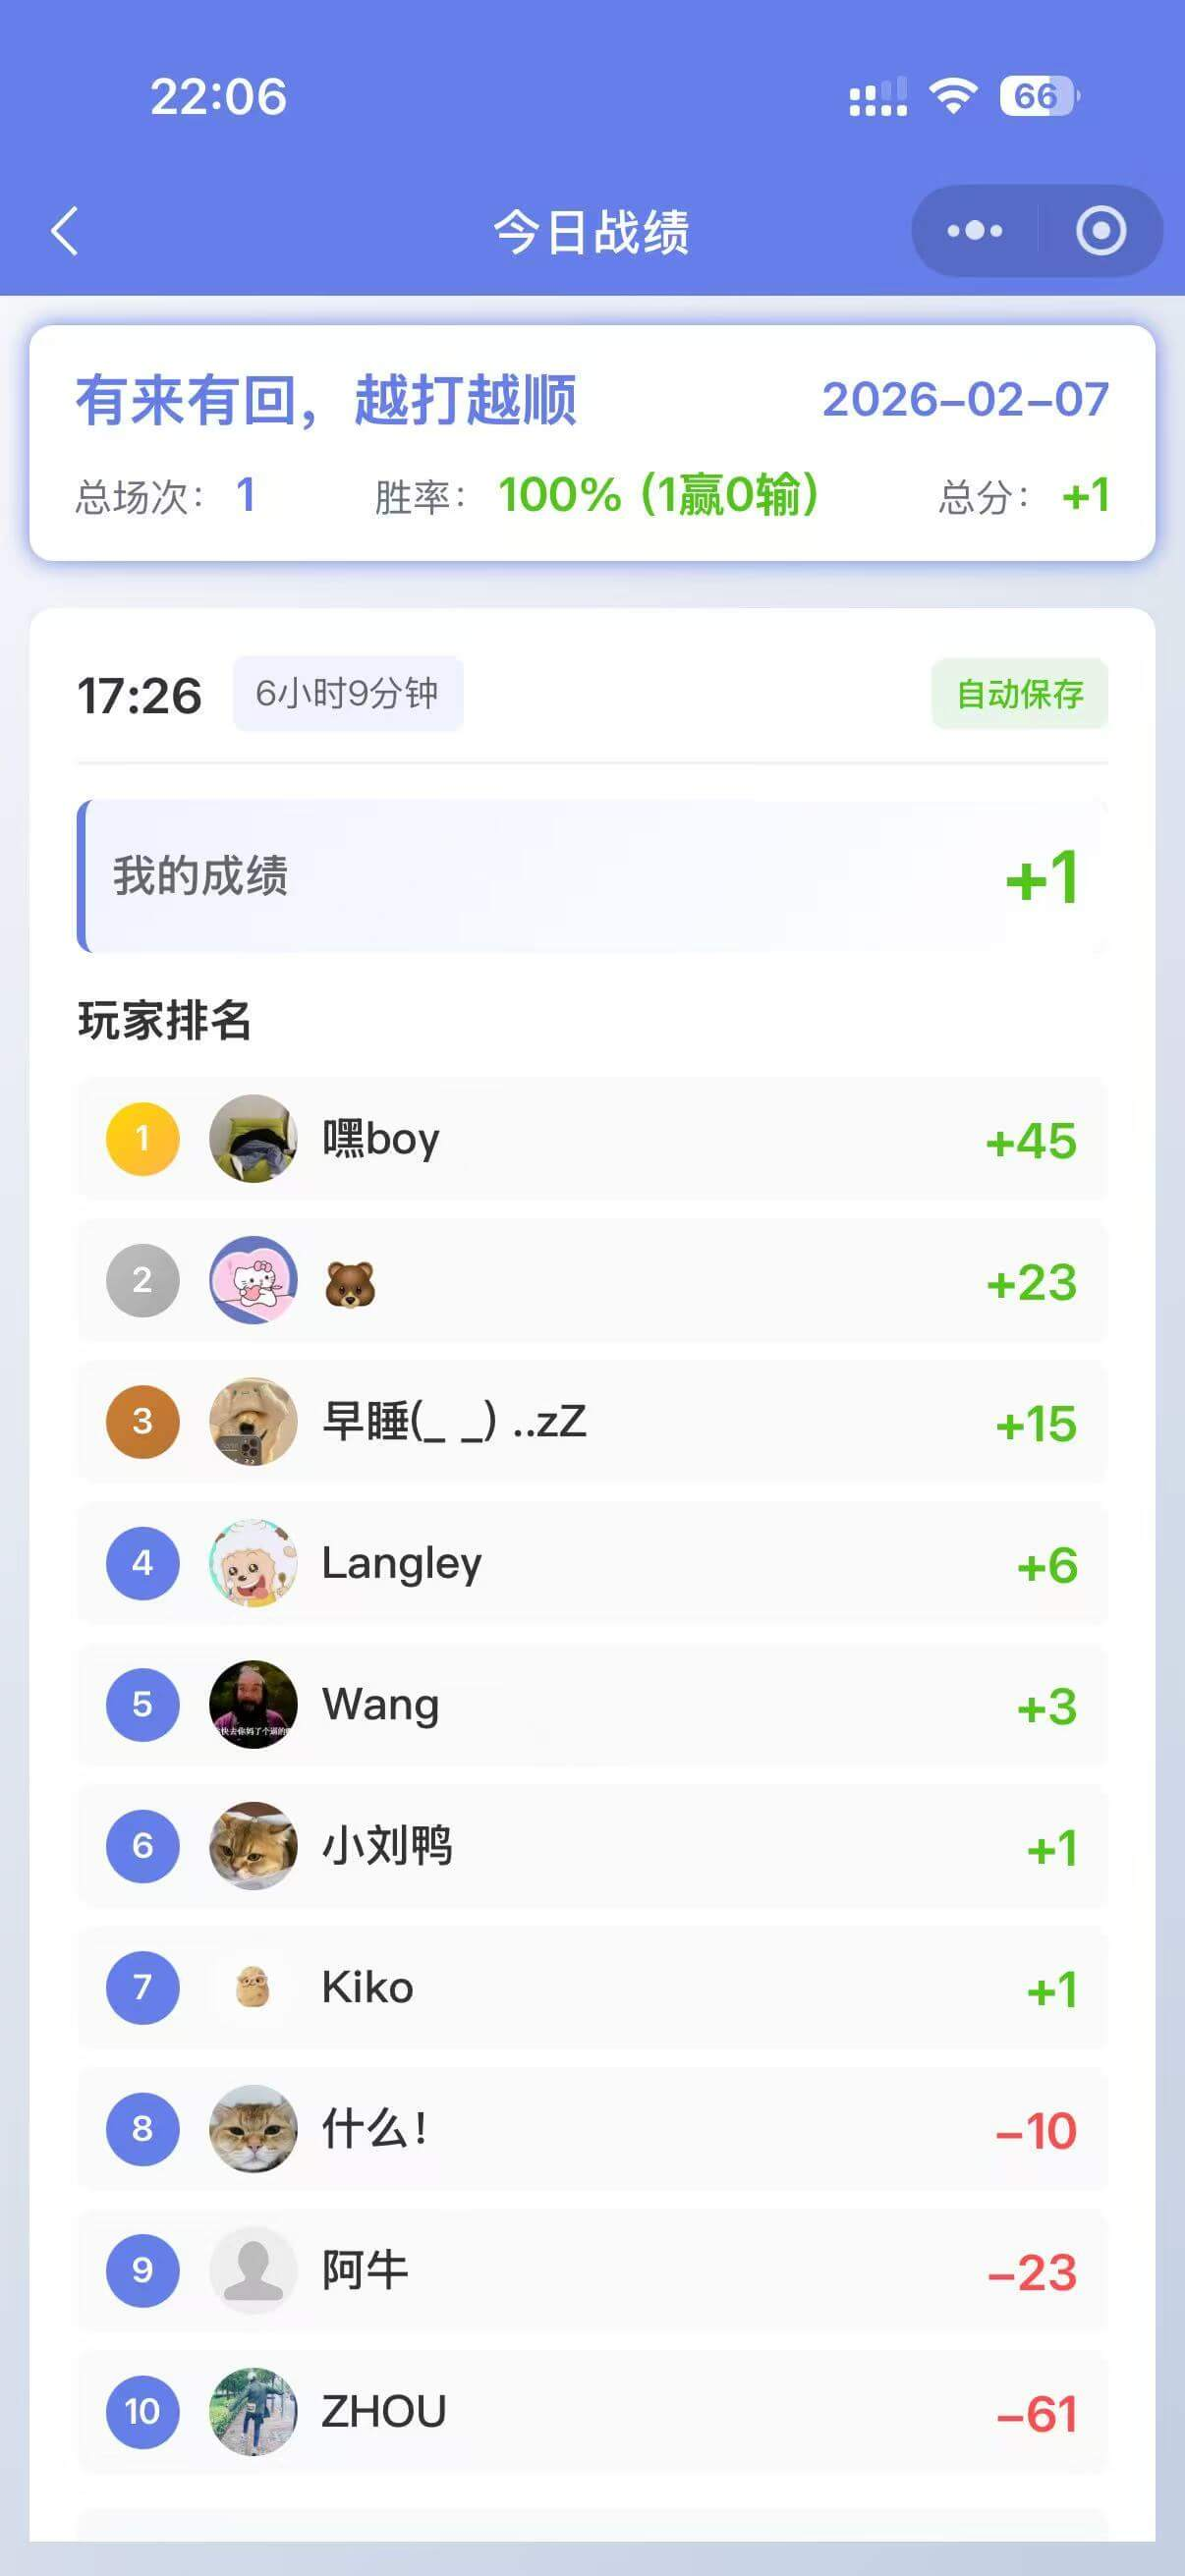
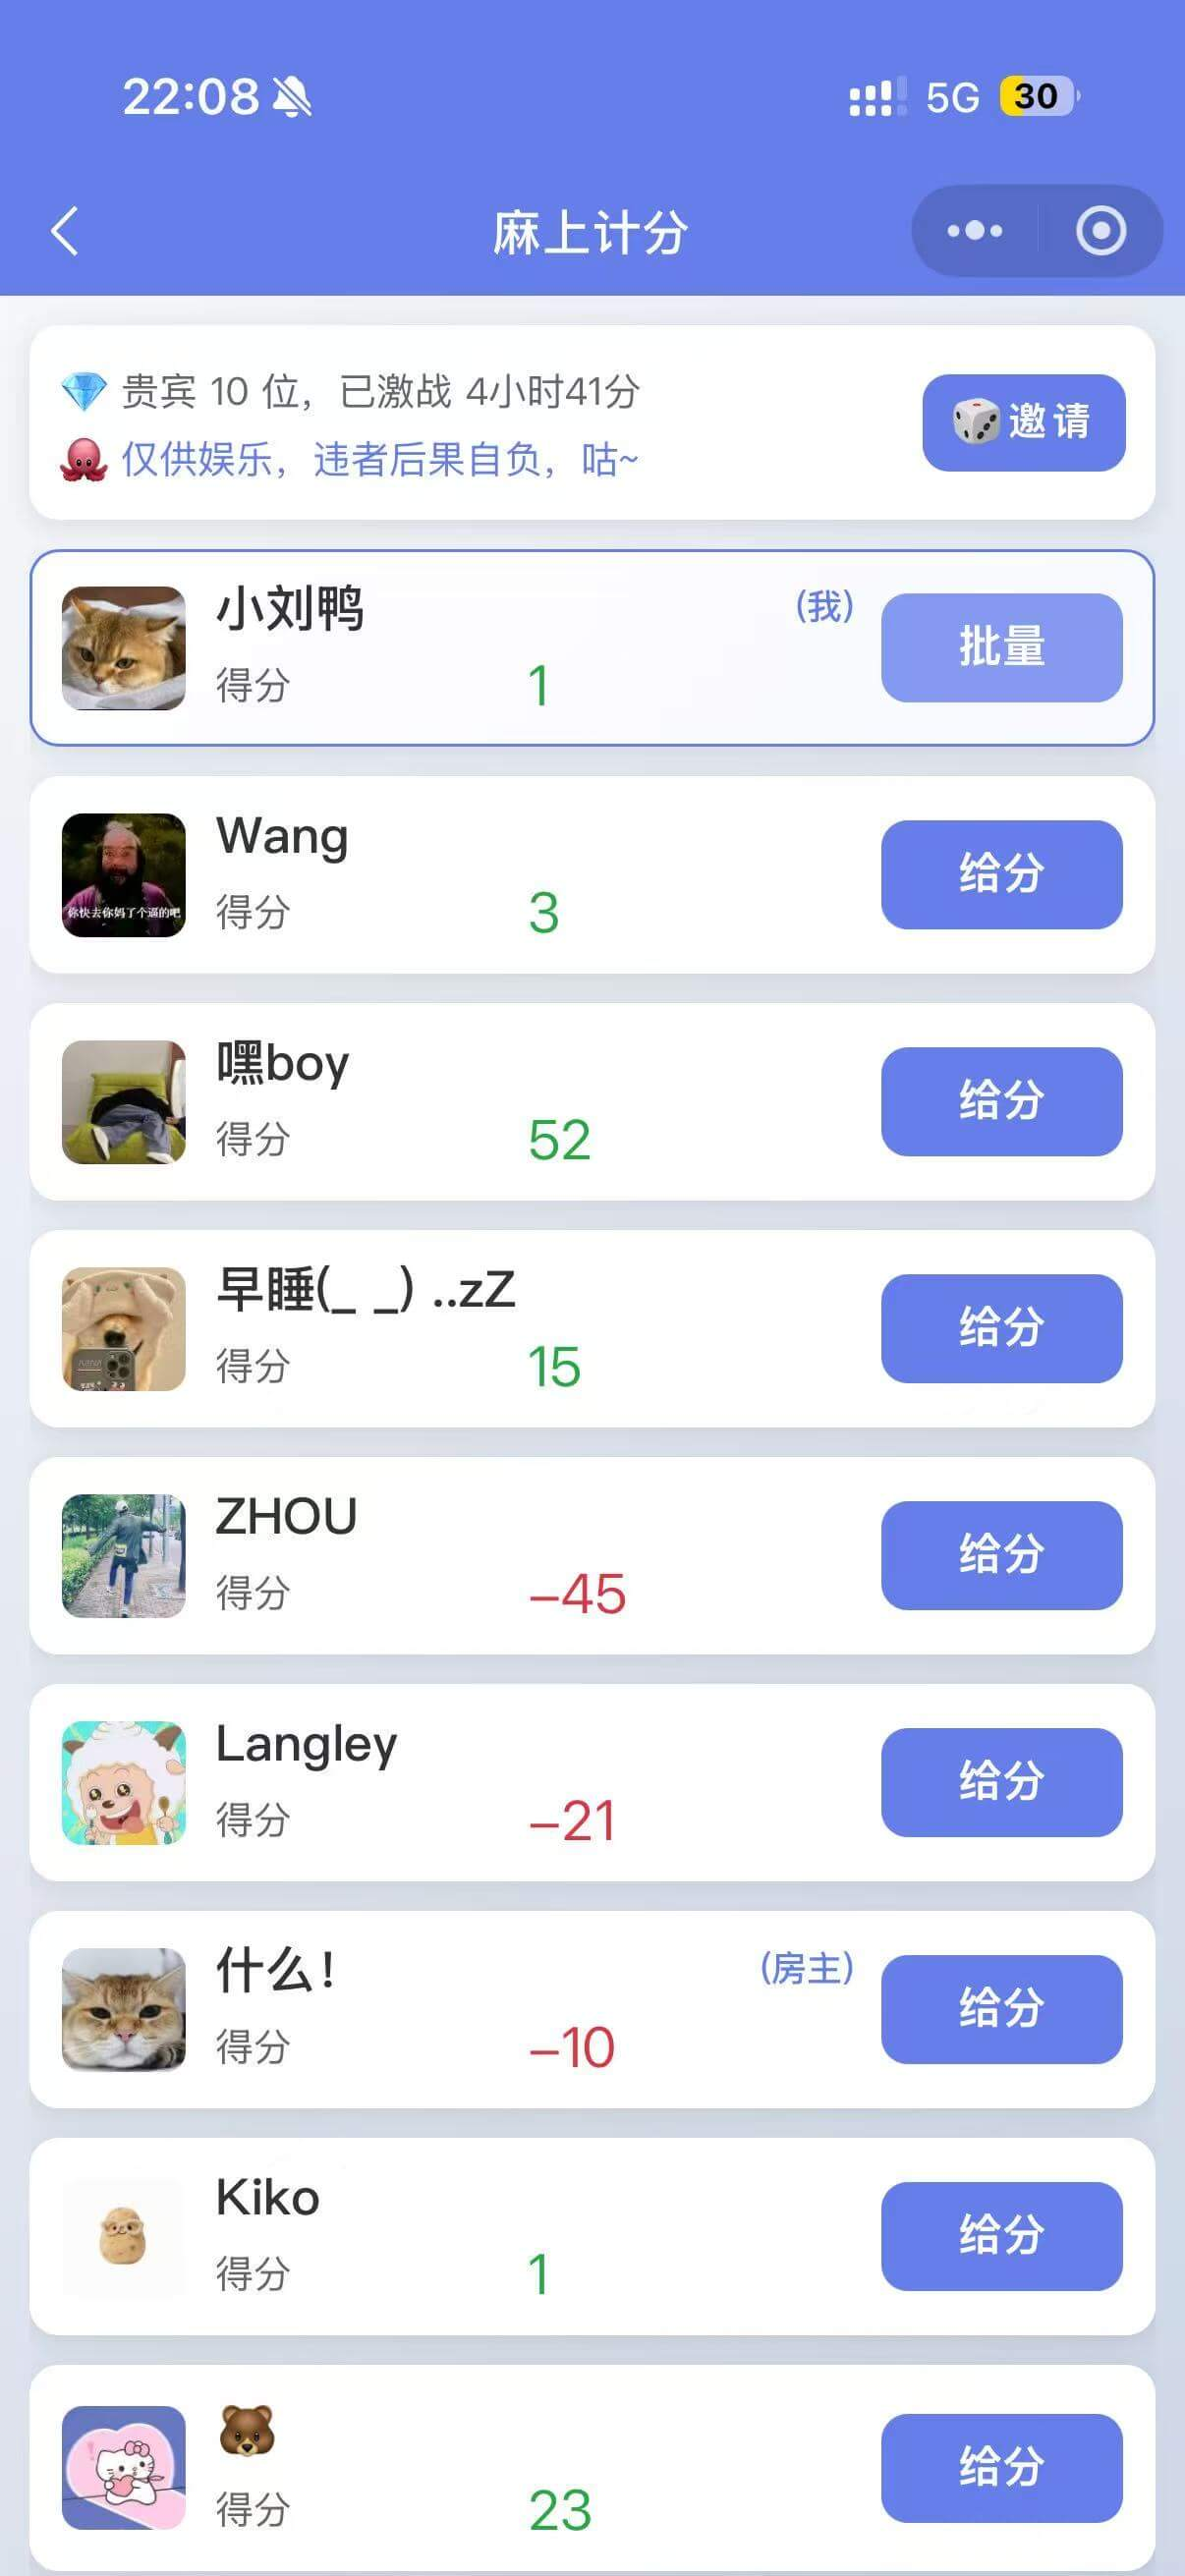
fix: update title to emphasize that "麻上计分" is completely free and ad-free; replace cover images for improved visual representation

Changed region(s): [[0.0, 0.0618, 0.9818, 1.0], [0.092, 0.0309, 0.2761, 0.0618], [0.7363, 0.0309, 0.8897, 0.0618]]

diff --git a/blog-main/content/posts/mashang-jifen.md b/blog-main/content/posts/mashang-jifen.md
@@ -1,5 +1,5 @@
 ---
-title: 打麻将记账不想再「开会员」？我做了个小程序叫「麻上计分」
+title: 打麻将记账不想再「开会员」？我做了个小程序叫「麻上计分」,完全免费无广告
 date: 2026-05-19
 excerpt: 简约好看好用——不卡人数、不加广告、没有会员制。去年看不惯别家计分小程序，自己写了一个给朋友用，现在快三千人了。
 author: Dci
@@ -28,7 +28,7 @@ coverImage: /content/posts/mashang-jifen/1.jpg
 
 配色也刻意收着：浅紫渐变顶栏、白底、圆角卡片，图标和字都偏大，戴老花镜的叔伯点也不容易误触。底部就 **「首页 / 我的」** 两个 tab，不堆五个底栏把人绕晕。
 
-![麻上计分首页：大块入口，一眼知道点哪](/content/posts/mashang-jifen/1.jpg)
+![麻上计分首页：大块入口，一眼知道点哪](/content/posts/mashang-jifen/2.jpg)
 
 旁边那些 **今天吃什么、麻将玩法、猜数字、备忘录**，是打牌间隙会顺手点开的小玩意，但不挡主流程。顶部滚动条我写了一句：**为了用户体验，不加任何广告**——这句话到现在也没删，算给自己立的规矩。
 
@@ -42,7 +42,7 @@ coverImage: /content/posts/mashang-jifen/1.jpg
 
 个人页的 **战绩日历** 用红绿标正负、旁边汇总本月总分和胜率，打完扫一眼就知道手气：
 
-![个人中心：战绩日历一眼看懂输赢](/content/posts/mashang-jifen/2.jpg)
+![个人中心：战绩日历一眼看懂输赢](/content/posts/mashang-jifen/1.jpg)
 
 **战绩日历** 按天标分，本月总分、场次、胜率、最高最低并排展示；爱较真的还能点 **封神榜** 看长期排名。
 